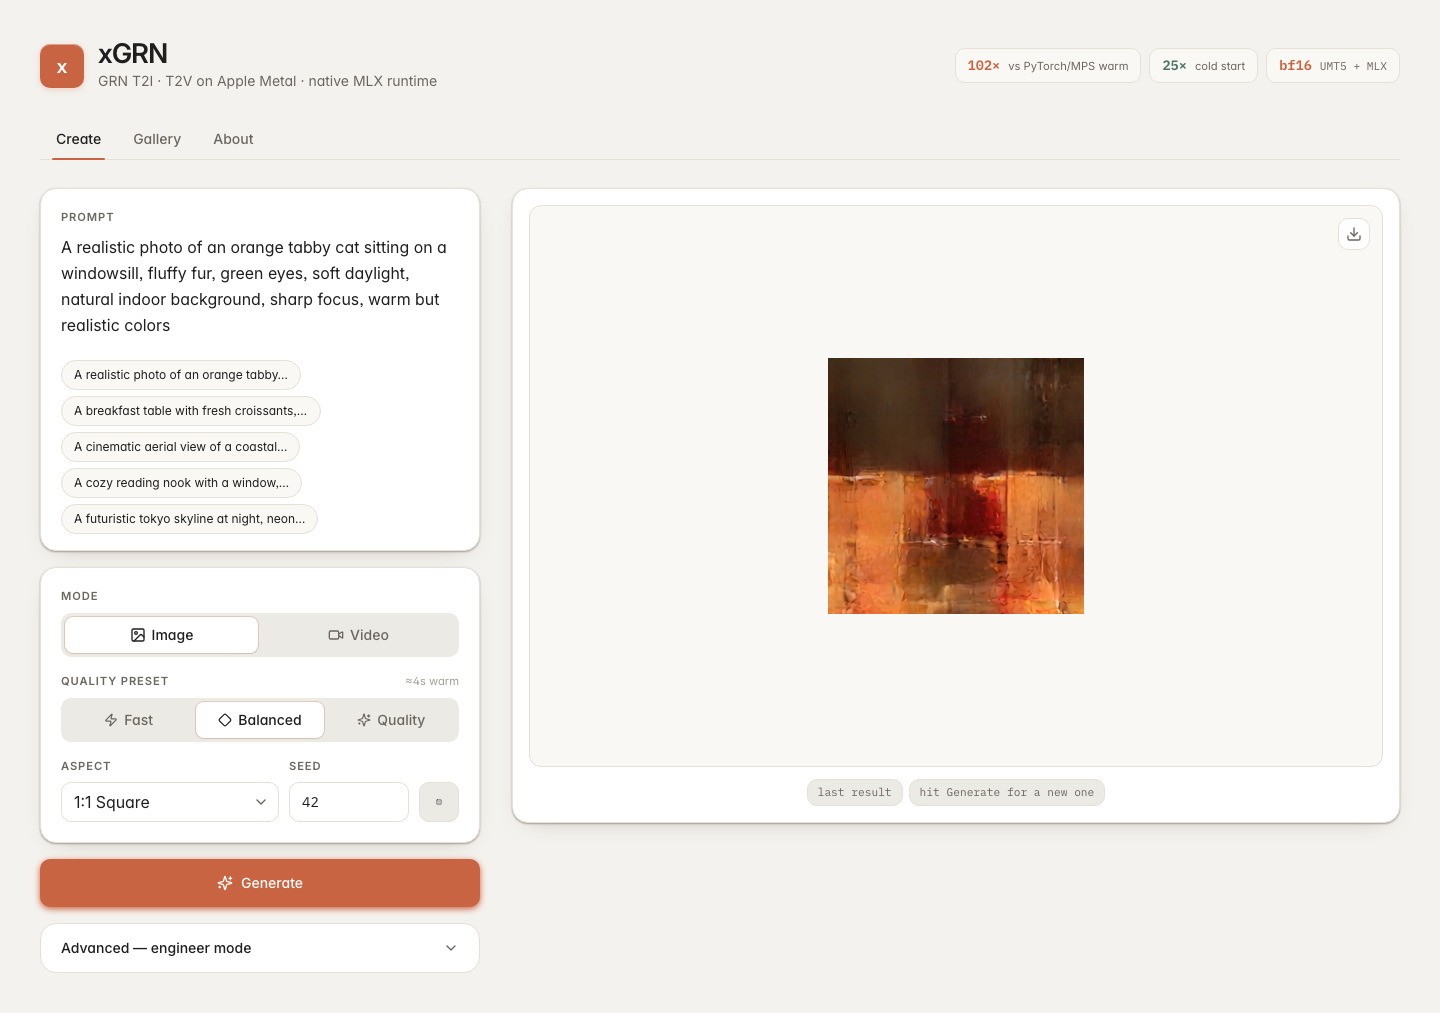
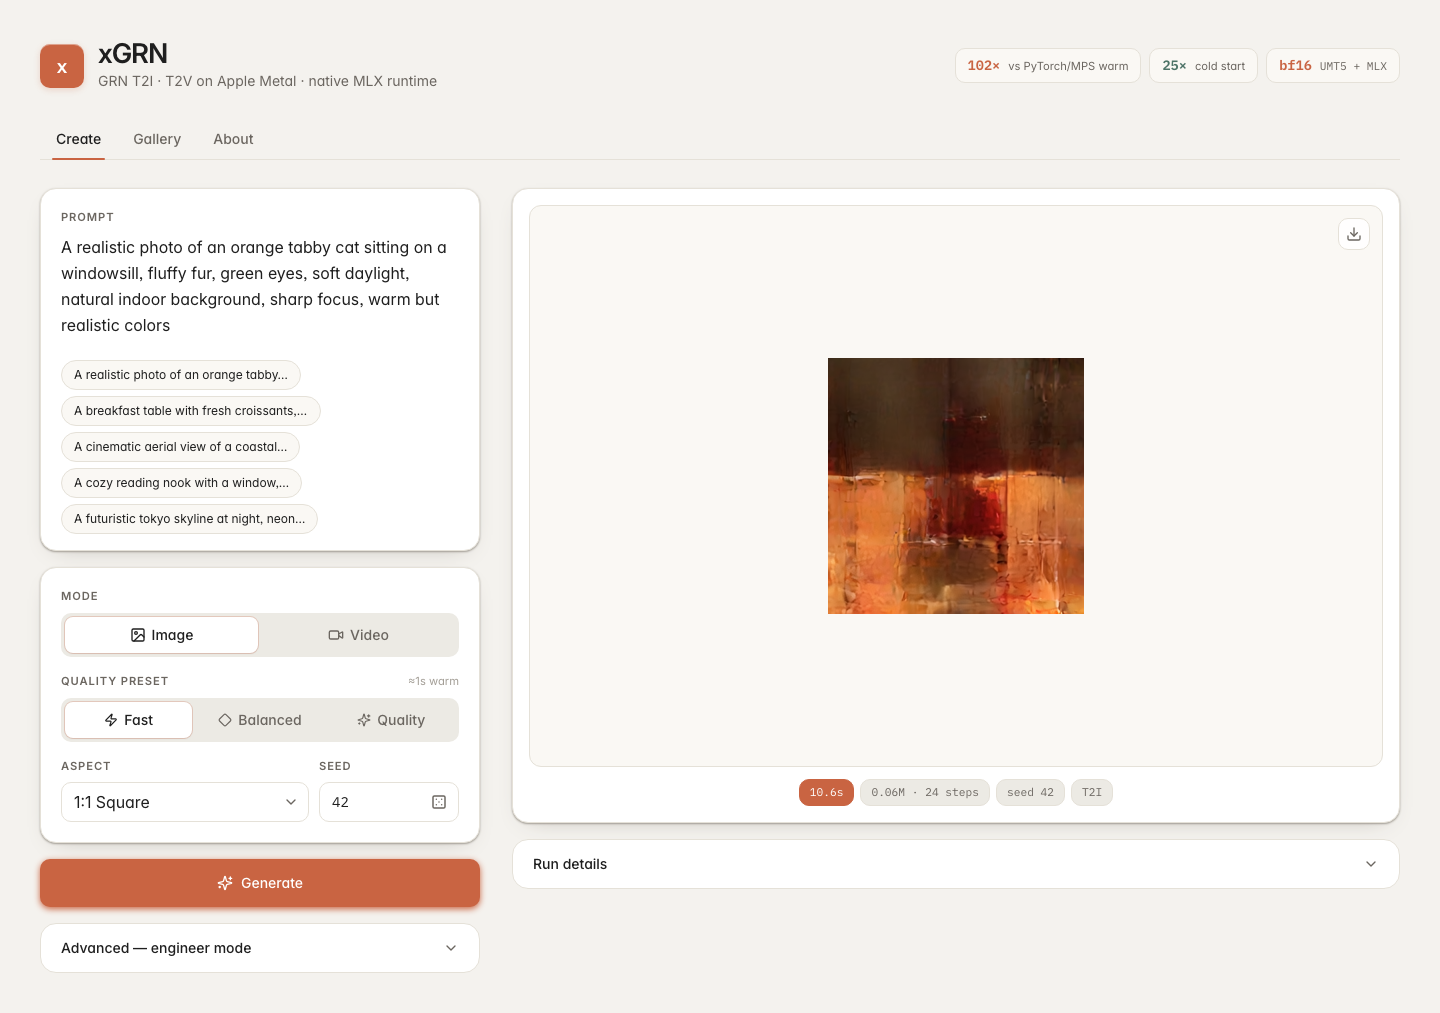
ui fixes from end-to-end test
- Preview pill said "seed T2I" — was a broken ternary that swallowed the
  seed value. Split into separate "seed N" and "{task}" pills, and add
  the seed to the backend summary so the value survives the round trip.
- Dice button rendered as an empty square because lucide's icon was
  too small inside a 40×40 ghost button. Move the random-seed control
  inside the Seed input as an inline icon button — matches Linear/Stripe
  pattern and makes the input feel like one component.
- Drop now-unused Button import from Controls; drop unused symbols from
  Preview.

Verified by booting the app, picking Fast preset, generating, and
inspecting the resulting pills + image swap.

diff --git a/web/src/components/Controls.tsx b/web/src/components/Controls.tsx
@@ -1,5 +1,5 @@
 import { Dice5, Image as ImageIcon, Video, Zap, Diamond, Sparkles } from 'lucide-react'
-import { Card, Segmented, FieldLabel, NativeSelect, Input, Button, Slider } from './ui'
+import { Card, Segmented, FieldLabel, NativeSelect, Input, Slider } from './ui'
 import type { Task, QualityKey, PresetMeta } from '../lib/api'
 import { randomSeed } from '../lib/api'
 
@@ -48,7 +48,7 @@ export function Controls({
         />
       </div>
 
-      <div className="grid grid-cols-[1fr_120px_auto] gap-2.5 items-end">
+      <div className="grid grid-cols-[1fr_140px] gap-2.5 items-end">
         <div>
           <FieldLabel>Aspect</FieldLabel>
           <NativeSelect
@@ -60,24 +60,22 @@ export function Controls({
         </div>
         <div>
           <FieldLabel>Seed</FieldLabel>
-          <Input
-            type="number"
-            value={state.seed}
-            onChange={(e) => setState({ seed: Number(e.currentTarget.value) || 0 })}
-            className="font-mono text-sm"
-          />
-        </div>
-        <div>
-          <FieldLabel>&nbsp;</FieldLabel>
-          <Button
-            variant="icon"
-            onClick={() => setState({ seed: randomSeed() })}
-            title="Random seed"
-            aria-label="Random seed"
-            className="h-10 w-10 px-0"
-          >
-            <Dice5 className="h-4 w-4" />
-          </Button>
+          <div className="relative">
+            <Input
+              type="number"
+              value={state.seed}
+              onChange={(e) => setState({ seed: Number(e.currentTarget.value) || 0 })}
+              className="font-mono text-sm pr-9"
+            />
+            <button
+              onClick={() => setState({ seed: randomSeed() })}
+              title="Random seed"
+              aria-label="Random seed"
+              className="absolute right-1 top-1/2 -translate-y-1/2 h-8 w-8 inline-flex items-center justify-center rounded text-muted hover:text-terra hover:bg-sub transition-colors"
+            >
+              <Dice5 className="h-4 w-4" strokeWidth={2.2} />
+            </button>
+          </div>
         </div>
       </div>
 

diff --git a/web/src/components/Preview.tsx b/web/src/components/Preview.tsx
@@ -1,8 +1,7 @@
-import { useState, useMemo } from 'react'
-import { Image as ImageIcon, Download, Maximize2, ChevronDown } from 'lucide-react'
+import { useMemo } from 'react'
+import { Image as ImageIcon, Download } from 'lucide-react'
 import { Card, Pill, Disclosure } from './ui'
 import type { GenerateResponse } from '../lib/api'
-import { cn } from '../lib/cn'
 
 export function Preview({
   result,
@@ -18,7 +17,6 @@ export function Preview({
   const imgSrc = result?.image_url ?? (loading ? null : initialImage)
   const videoSrc = result?.video_url ?? null
   const isVideo = !!videoSrc
-  const summary = result?.summary
 
   return (
     <div className="space-y-4">
@@ -69,7 +67,8 @@ export function Preview({
             <>
               <Pill tone="terra">{result.elapsed_sec.toFixed(1)}s</Pill>
               <Pill>{result.summary.pn} · {result.summary.steps} steps</Pill>
-              <Pill>seed {summary?.task === 'T2V' ? '·' : ''} {result.summary.task}</Pill>
+              <Pill>seed {result.summary.seed}</Pill>
+              <Pill>{result.summary.task}</Pill>
             </>
           ) : initialImage ? (
             <>

diff --git a/web/src/lib/api.ts b/web/src/lib/api.ts
@@ -38,6 +38,7 @@ export interface RunSummary {
   pn: string
   steps: number
   guidance: number
+  seed: number
   elapsed_sec: number
   timings: Record<string, number>
   raw_shape: number[]

diff --git a/app.py b/app.py
@@ -345,6 +345,7 @@ def _run_generation(body: GenerateBody) -> dict[str, Any]:
         "pn": pn,
         "steps": int(steps),
         "guidance": float(guidance),
+        "seed": int(body.seed),
         "elapsed_sec": round(elapsed, 2),
         "timings": {k: round(v, 3) for k, v in result.timings.items()},
         "raw_shape": list(result.raw_shape),